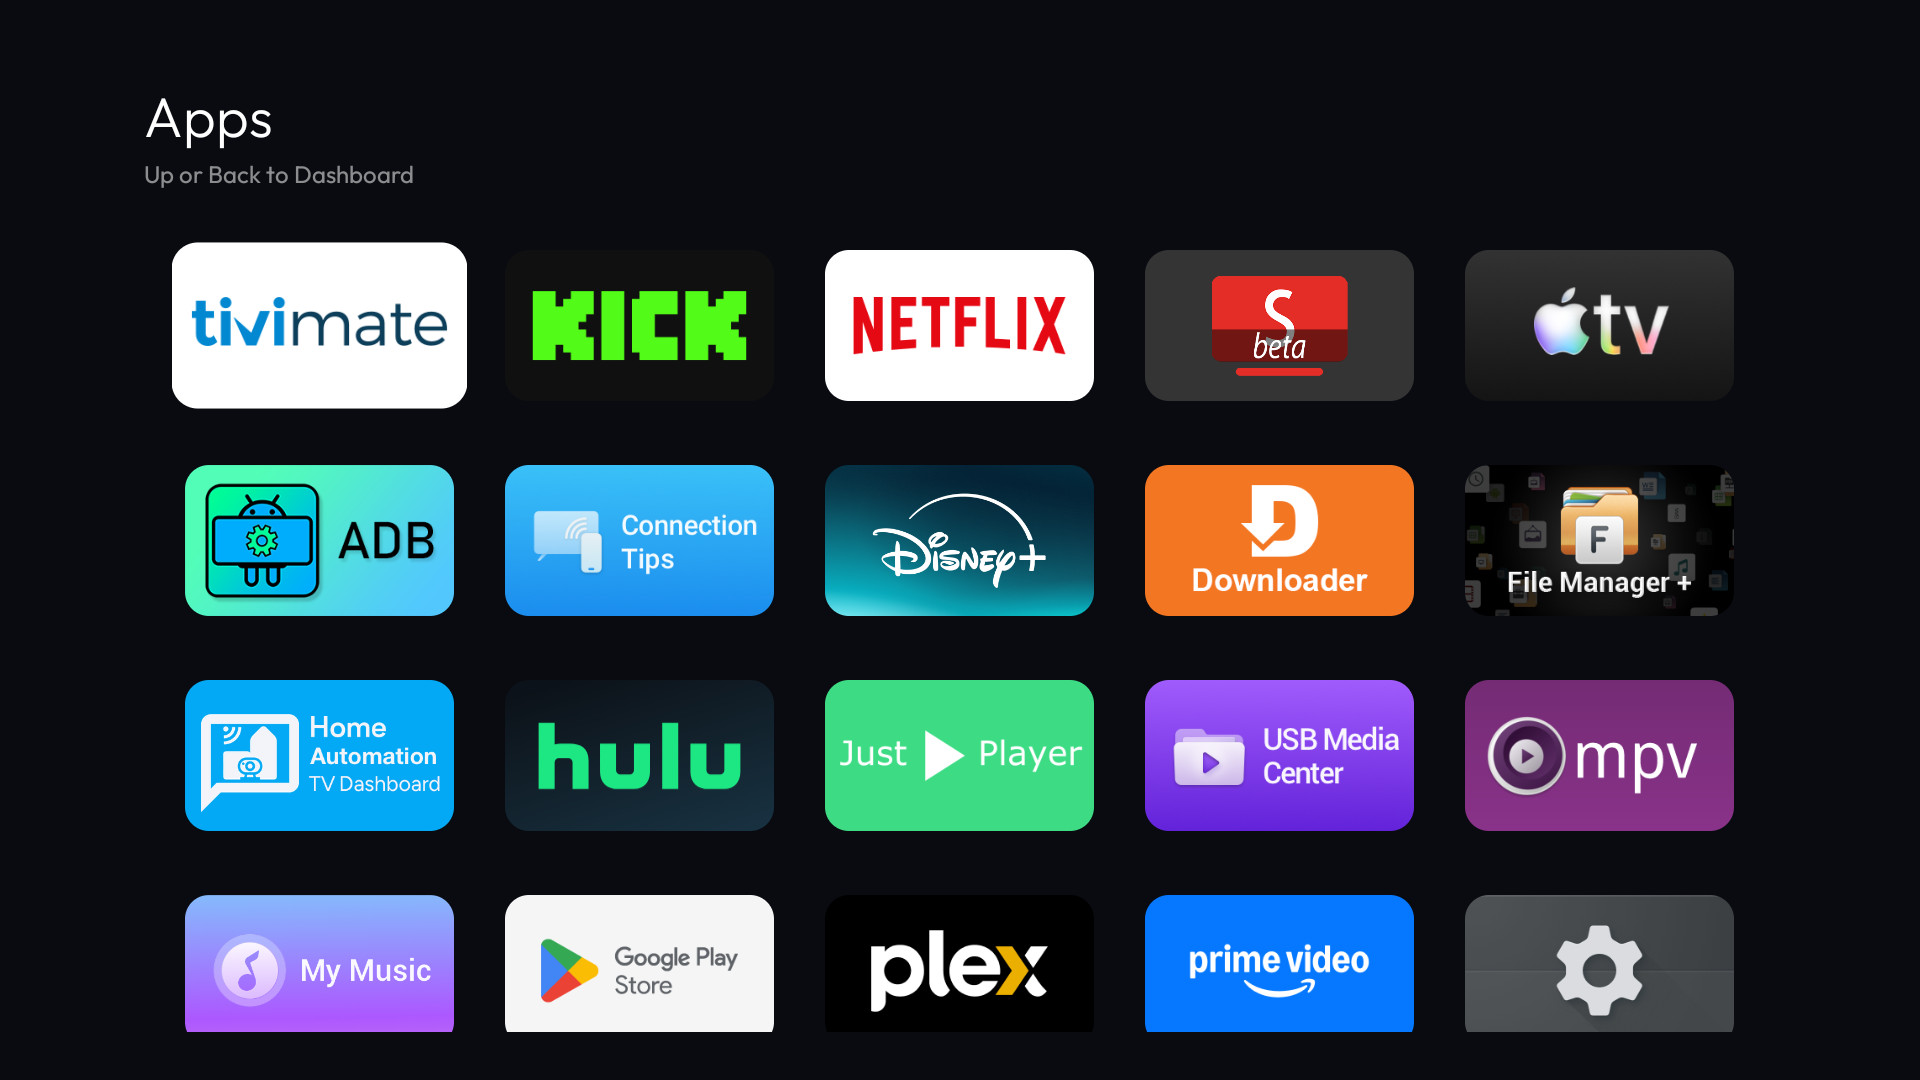
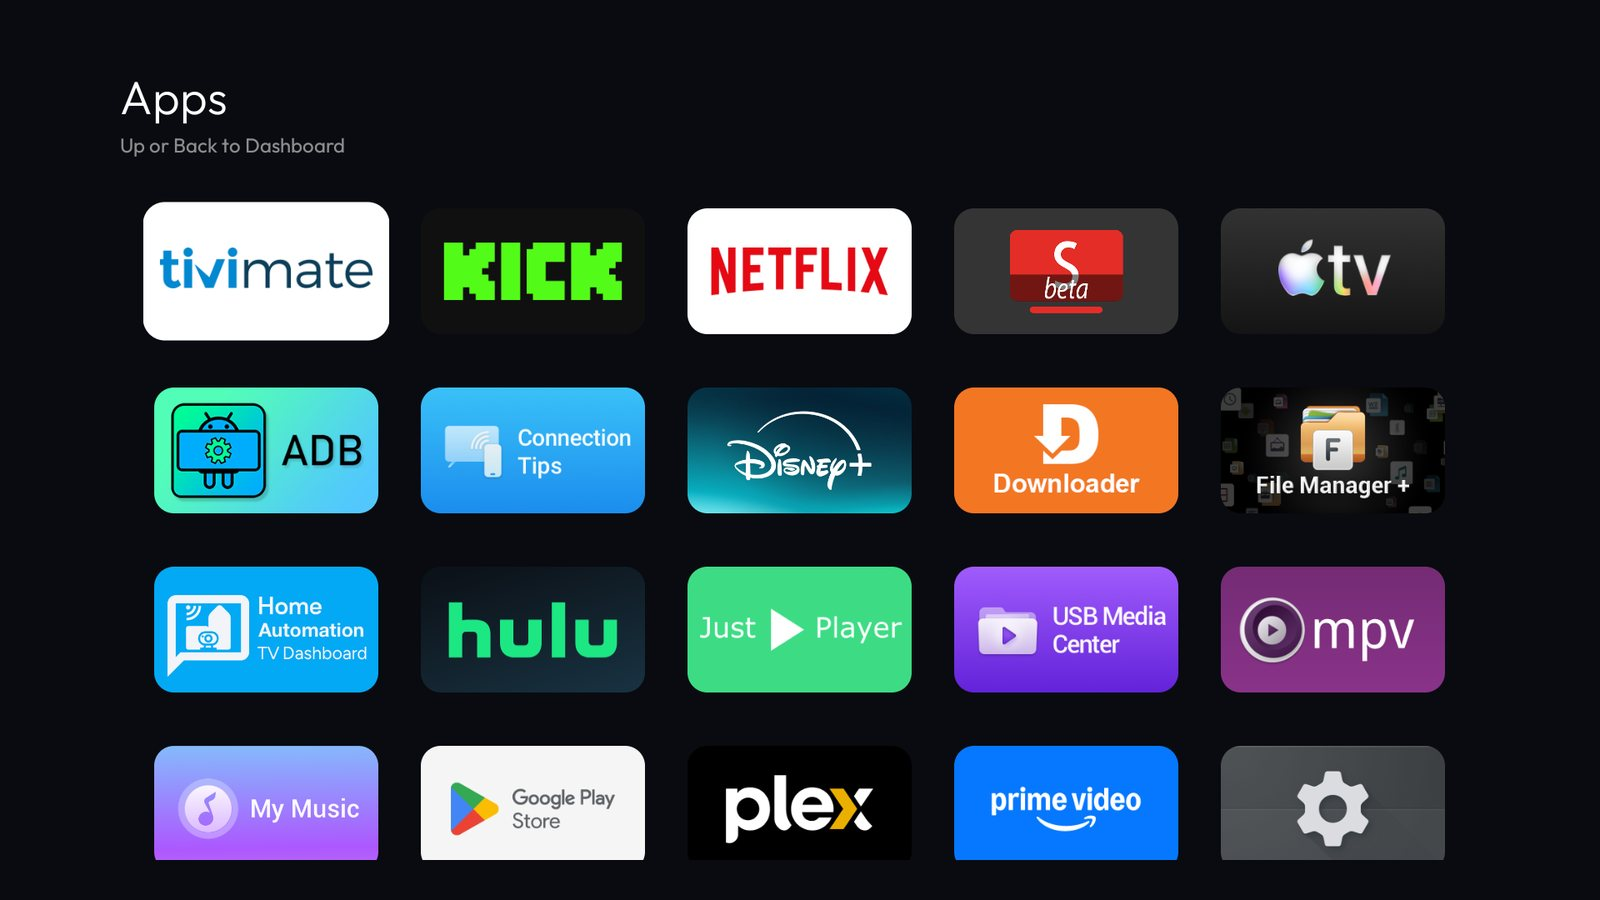
README: rewrite the front page as a tour with fresh screenshots
New Dashboard, drawer, Movies, episode guide and Apps screenshots from the Office TV (calendar line blurred), a remote cheat sheet, and the stale Explore-era images and wording removed.

diff --git a/tests/fork/test_mytv.py b/tests/fork/test_mytv.py
@@ -26,9 +26,10 @@ BUILT_APK = ROOT / "launcher" / "app" / "build" / "outputs" / "apk" / "release" 
 # Images the front page shows, relative to the repo root.
 FRONT_PAGE_IMAGES = [
     "docs/screenshots/home.jpg",
-    "docs/screenshots/explore.jpg",
-    "docs/screenshots/explore-shows.jpg",
+    "docs/screenshots/drawer.jpg",
+    "docs/screenshots/movies.jpg",
     "docs/screenshots/episodes.jpg",
+    "docs/screenshots/apps.jpg",
 ]
 
 

diff --git a/README.md b/README.md
@@ -1,129 +1,131 @@
 # MyTV
 
-My three home TVs, running a customised fork of [Clean Your TV](https://github.com/Gathin23/cleanyourtv): the
-stock Google TV home screen is replaced by a clean, Apple TV style launcher (`com.gathin.tvhome`), and the
-tracking and unused system services are disabled (never uninstalled). This is a private, personal backup;
-nothing here is meant for upstream. The original project's README is kept for reference at
-[`README.upstream.md`](README.upstream.md).
+A cinematic, Apple TV–style home screen for the Google TV devices in my house. It is built on a private fork
+of [Clean Your TV](https://github.com/Gathin23/cleanyourtv). The stock Google TV home and its ads are replaced
+by a fast, quiet launcher (`com.gathin.tvhome`). The tracking and unused system services are disabled, never
+uninstalled, so every change can be undone.
 
-![The MyTV home screen](docs/screenshots/home.jpg)
+![Dashboard: a full-screen movie backdrop, title, rating, Play button and the favorite-apps dock](docs/screenshots/home.jpg)
 
-## What I added on top of upstream
+## Highlights
 
-- **Cinematic Dashboard**: a full-screen TMDB backdrop with title, overview, year, runtime, US age rating and a
-  yellow `TMDb` score badge. A focusable **Play** pill opens the presented title, while the only row below the
-  spotlight is the configured priority-app dock.
-- **Shows**: a separate rail and show-detail screen with the show's artwork, overview, seasons and episode cards.
-  Selecting Shows focuses its first card and pauses the movie spotlight.
-- **Auto-rotating movie spotlight**: Dashboard keeps the priority-app focus in place while the spotlight
-  cross-fades every 10 seconds. If the Play pill is focused instead, focus returns to the first priority app after
-  10 seconds. Movies is a separate poster rail with its own 10-second focus timeout.
-- **Drawer navigation**: Back or the rail's left edge opens Dashboard, TV, Movies, Shows, Apps, Home Assist and
-  Settings. The drawer highlights the current section and physical Home always returns to Dashboard.
-- **Apps page**: a standalone catalogue using the launcher's original TV banner tiles, app order, focus scale and
-  animation. Pressing Down from the Dashboard priority dock fades into this same catalogue; Up from its first row
-  or Back restores the priority-app focus left behind. The drawer opens the same catalogue and keeps its existing
-  drawer return behavior.
-- **Home Assist**: opens from the drawer through the guarded WebView.
-- **Series freshness**: a show moves up using its newest downloaded episode file's modification time, rather
-  than the older date at which the series was first added.
-- **Weather widget** in place of the date next to the clock: current temperature, a condition icon and today's
-  high and low, from the TV's own location.
-- **Per-room setups** under [`mytv/`](mytv/README.md): one config, debloat list and set of scripts per TV.
+- **Dashboard first.** Every press of Home opens a full-screen backdrop of the newest movie, with its title,
+  year, runtime, age rating and TMDb score. Your favorite apps sit in a dock underneath.
+- **Movies and Shows** each have their own poster rail. Shows opens a full episode guide with stills and titles.
+- **One side drawer** handles all navigation: Dashboard, TV, Movies, Shows, Apps, Home Assist and Settings.
+- **Every app is one press away.** Press Down from the dock and the screen fades into the full app catalog.
+- **Weather and your next calendar event** sit next to the clock.
+- **Light and private.** There is no telemetry and no background polling, and the release APK is under 700 KB.
 
-### Dashboard, Shows and the Apps page
+## A quick tour
 
-![Movies: a full-screen backdrop with title, rating, overview and a poster rail](docs/screenshots/explore.jpg)
+### Dashboard
 
-The side drawer replaces the old Home / Explore tabs:
+The spotlight changes to a new movie every 10 seconds, while focus stays on your apps. Press **Up** to reach
+**Play**, which starts the title on screen. Leave Play focused for 10 seconds and focus returns to the first app.
 
-- **Dashboard** rotates the newest Local and IPTV movie spotlight over the full-screen backdrop while the
-  configured priority apps stay in the bottom dock. App focus does not pause or affect the spotlight. Up from the
-  apps focuses the **Play** pill, which opens the current title; if Play stays focused for 10 seconds, focus returns
-  to the first priority app. Down from an app fades into the full Apps catalogue. Up from its first row or Back
-  restores the priority app where the transition began.
-- **Movies** is separate from Dashboard and keeps the Recently Added poster rail. It enters with the first card
-  focused. After 10 seconds of inactivity, focus clears and the spotlight resumes rotating; the next D-pad key
-  restores movie focus.
-- **Shows** uses downloaded series and focuses the first card after the rail switch. It pauses the movie rotation.
-  OK opens the show's season/episode page; Back returns to the previous screen.
-- **Apps** opens a separate catalogue rendered with the original launcher `AppAdapter` tiles and banner artwork.
-  Its ordering is the launcher's configured ordering, not a new app sort.
-- **Home Assist** opens the configured Home Assistant dashboard.
-- The full-screen backdrop, episode title, show title, year, runtime, age rating, `TMDb` score and overview follow
-  the focused item.
-- **Age ratings** come from TMDB's US listing and appear next to the year, both here and on the Home showcase.
-  Movies show their certificate (PG-13, R and so on) and series show their TV rating (TV-14, TV-MA and so on). A title with no US release on TMDB shows no age rating, so an unreleased film stays
-  blank until TMDB lists one.
+### The side drawer
 
-![Shows: The Amazing Race backdrop with a focused series rail](docs/screenshots/explore-shows.jpg)
+![The side drawer: Dashboard, TV, Movies, Shows, Apps, Home Assist and Settings](docs/screenshots/drawer.jpg)
 
-The same banner tiles appear in the full Apps catalogue:
+Press **Back**, or **Left** from the edge of a row, to slide the drawer open. It highlights the section you are
+in. Pressing **Home** closes it and goes back to the Dashboard.
 
-![All Apps catalogue reached with Down from the Dashboard priority row](docs/screenshots/apps.jpg)
+### Movies
 
-Focusing a show opens its episodes in order as wide stills, each with its own TMDB name and overview:
+![Movies: a Recently Added poster rail under the selected movie's backdrop and details](docs/screenshots/movies.jpg)
 
-![Explore episodes view: The Amazing Race S39 with a rail of episode stills and titles](docs/screenshots/episodes.jpg)
+Movies opens with the first poster selected. The backdrop and details follow whichever poster you are on. After
+10 seconds without a key press, the selection clears and the spotlight starts changing again. Any arrow key brings
+the selection back.
+
+### Shows
+
+![Shows: an episode guide with large stills, episode titles and a season picker](docs/screenshots/episodes.jpg)
+
+Shows lists your downloaded series, newest episode first, so a show with a new episode comes back to the front.
+Press OK on a show to open its episode guide. Each episode has its own still, title, overview and TMDb score.
+
+### Apps
+
+![The full app catalog, reached by pressing Down from the Dashboard dock](docs/screenshots/apps.jpg)
+
+Press **Down** from the dock and the screen fades into the full catalog. It uses the same tiles and order as
+the dock. Press **Up** from the top row, or **Back**, to return to the exact app you left.
+
+### Metadata
+
+Backdrops, overviews, US age ratings (PG-13, R, TV-14 and so on) and the yellow `TMDb` score come from
+[TMDB](https://www.themoviedb.org/). A title with no US release on TMDB shows no rating.
+
+## Remote cheat sheet
+
+| Press | On | Does |
+|-------|----|------|
+| Home | Anywhere | Back to the Dashboard, with the first app selected |
+| Back, or Left at the edge | Dashboard, Movies, Shows | Opens the side drawer |
+| Up | Dashboard dock | Selects **Play** for the spotlight movie |
+| Down | Dashboard dock | Fades into the full app catalog |
+| Up or Back | Top row of the app catalog | Returns to the Dashboard app you came from |
+| OK | A movie or show | Plays the movie, or opens the show's episode guide |
 
 ## My TVs
 
-| Room | Device | Features |
-|------|--------|------|
-| Office | Hisense SmartTV 4K (lushan), Google TV 12 | Dashboard, Shows detail, Apps catalogue, drawer, Weather widget |
-| LivingRoom TV | onn. Streaming Device 4K pro (SNA), Google TV 14 | Same launcher features, Weather widget |
-| Master Bedroom | onn 4K Pro (jarvis2), Google TV 14 | Same launcher features, Weather widget |
+| Room | Device | Notes |
+|------|--------|-------|
+| Office | Hisense 4K Smart TV (lushan), Google TV 12 | Built-in TV, so HDMI inputs and a Live TV app |
+| Living Room | onn 4K Pro streaming box, Google TV 14 | Streaming box only |
+| Master Bedroom | onn 4K Pro (jarvis2), Google TV 14 | Streaming box only. A sixth column of apps |
 
-Addresses, what was disabled and why, remote-button notes and the restore commands are in
-[`mytv/README.md`](mytv/README.md). Each room's folder has its own `config.xml`, `debloat.txt` and the batches
-as applied.
+All three run the same launcher, built with each room's own `config.xml`. What was disabled and why, the
+remote-button notes and the restore commands for each room are in [`mytv/README.md`](mytv/README.md).
 
 ## Common tasks
 
-Run from the repo root in PowerShell. The TV needs network ADB enabled. If it only offers Wireless debugging,
-pair with platform-tools `adb` and use the connection endpoint shown in Developer options; see the
-[native ADB guide](tools/native-adb.md).
+Run these from the repo root in PowerShell. The TV needs network ADB turned on. If it only offers Wireless
+debugging, pair with platform-tools `adb` first; see the [native ADB guide](tools/native-adb.md).
 
 | To | Run |
 |----|-----|
 | Build the launcher for a room and install it | `pwsh mytv\build-and-install.ps1 -Room 'LivingRoom TV'` |
-| Snapshot a TV before changing it | `pwsh mytv\backup.ps1 -Room 'LivingRoom TV'` |
+| Back up a TV before changing it | `pwsh mytv\backup.ps1 -Room 'LivingRoom TV'` |
 | Undo a room's debloat and give Home back | `pwsh mytv\restore.ps1 -Room 'LivingRoom TV'` |
 | Disable a batch of packages | `pwsh tools\disable.ps1 -TvHost <ip>:5555 'mytv\<room>\batch1.txt'` |
 | Push the Christmas theme | `pwsh tools\theme.ps1 -TvHost <ip>:5555 themes\christmas` |
 | Take a screenshot | `$env:TV_HOST='<ip>:5555'; .\.venv\Scripts\python.exe tools\tv.py --screenshot shots\x.png` |
 
-Edit `mytv\<room>\config.xml`, not `launcher\app\src\main\res\values\config.xml`: the room's file is copied over
-the launcher's on every build, so the launcher's copy always shows the last room built.
+Edit `mytv\<room>\config.xml`, not `launcher\app\src\main\res\values\config.xml`. Every build copies the room's
+file over the launcher's, so the launcher's copy always matches the last room built.
 
-## Setting up a new TV like the office
+## Setting up a new TV
 
 1. Add the room to `mytv\rooms.ps1`, and to the `ValidateSet` in `build-and-install.ps1`, `backup.ps1` and
    `restore.ps1`.
-2. Back it up first with `backup.ps1`. Check `dumpsys wifi | grep -o 'cname=[^ ]*'` before disabling the setup
-   wizard: if it owns the saved Wi-Fi network, disabling it drops the TV off Wi-Fi.
-3. Copy the office `config.xml` into the new room's folder and change what the hardware needs (a streaming box
-   has no Live TV app or HDMI inputs). The main navigation is in the side drawer. Keep `weather_widget`,
-   `explore_page` and `media_rail` on.
-4. Disable the debloat batches one at a time with a screenshot between them, setup wizard last.
-5. Install mpv and Just Player if the room uses the rail, then run `build-and-install.ps1`.
+2. Back the TV up with `backup.ps1`. Before disabling the setup wizard, check
+   `dumpsys wifi | grep -o 'cname=[^ ]*'`. If the wizard owns the saved Wi-Fi network, disabling it takes the TV
+   off Wi-Fi.
+3. Copy the Office `config.xml` into the new room's folder and change what the hardware needs. A streaming box
+   has no Live TV app or HDMI inputs. Keep `media_rail`, `explore_page` and `weather_widget` on.
+4. Disable the debloat batches one at a time, with a screenshot between them. Disable the setup wizard last.
+5. Install mpv and Just Player, which play the movies and episodes, then run `build-and-install.ps1`.
 6. Push the theme, reboot once, and compare `pm list packages -d` before and after.
 
 ## Build
 
-JDK 17 and the Android SDK are set up by `mytv\toolchain.ps1` into `%LOCALAPPDATA%\cleanyourtv-toolchain`. The
-release APK must stay under 786,432 bytes (768 KiB); the current local build is about 640 KiB.
+`mytv\toolchain.ps1` sets up JDK 17 and the Android SDK in `%LOCALAPPDATA%\cleanyourtv-toolchain`. The release
+APK must stay under 786,432 bytes (768 KiB). The current build is about 650 KiB.
 
 ## Not in this repo
 
-Private provider logins, local-library credentials, API keys, and device details stay on my PC on purpose.
+Private provider logins, media-server credentials, API keys and device details are kept on my PC on purpose:
 
 - `mytv\*\backups\`: package and settings snapshots of each TV, taken before any change.
-- `tools\adbkey`: the ADB key that the TVs authorised.
-- `shots\`: screenshots, which show the Wi-Fi name.
+- `tools\adbkey`: the ADB key the TVs have authorized.
+- `shots\`: raw screenshots, which can show personal details.
 
-## Credit and licence
+## Credit and license
 
-Built on Clean Your TV by Gathin23, released under the MIT licence; see [`LICENSE`](LICENSE) and the original
-page at [`README.upstream.md`](README.upstream.md). The room setups, the Movies & Shows rail, the Explore page
-and the other changes above are my own additions to the fork.
+Built on [Clean Your TV](https://github.com/Gathin23/cleanyourtv) by Gathin23, released under the MIT license.
+See [`LICENSE`](LICENSE). The upstream README is kept at [`README.upstream.md`](README.upstream.md). The
+Dashboard, drawer, Movies and Shows rails, the episode guide, the Apps catalog and the room setups are my own
+additions to the fork.
